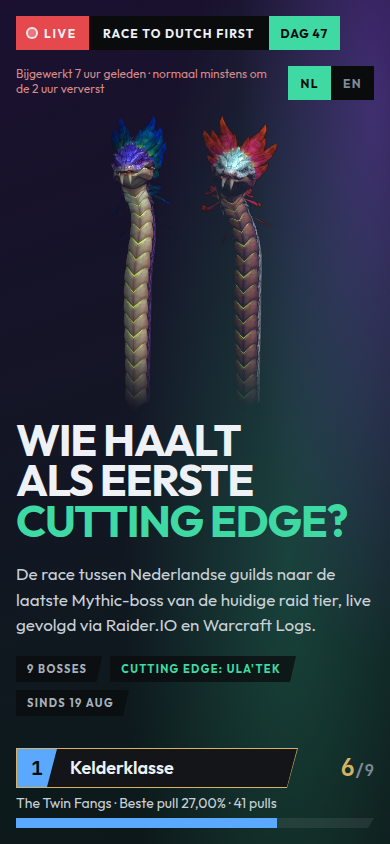
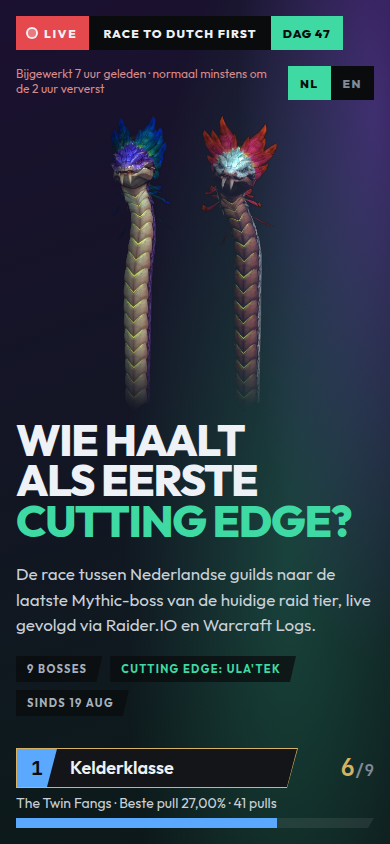
Design v2: fix drift found by the documenter (load Outfit 800, Progressie off gold, Nu live in --live-red, one late colour, dead CSS out, stale comments + contract updated)

diff --git a/site/style.css b/site/style.css
@@ -1,8 +1,8 @@
 /* =====================================================================
-   Race to Dutch First
-   The dashboard language of bmiest_wowaudit_wishlist_updater/site/style.css:
-   a ribbon brand mark, square dark tiles, flat slanted pills. Colours, fonts
-   and radii come only from tokens.css (copied unchanged from the overlay);
+   Race to Dutch First: the sections below the hero (splash.css is the hero).
+   Design language v2 (DESIGN.md): the overlay's ribbons, slanted pills, the
+   angled rcard and flat inks. Colours, fonts and radii come from tokens.css
+   (copied unchanged from the overlay; --live-red sits in splash.css);
    a guild's own colour arrives from race.json as --guild on its element.
    tokens.css sets body{overflow:hidden} for a fixed OBS canvas: undone here.
    ===================================================================== */
@@ -25,7 +25,7 @@ a:hover { text-decoration-color: var(--jade); }
   clip-path: inset(50%); white-space: nowrap;
 }
 
-/* ---- ribbon (brand mark) -------------------------------------------- */
+/* ---- ribbon (the board rows in the hero) ------------------------------ */
 .rib { display: flex; flex-direction: column; flex: 0 0 auto; min-width: 0; }
 .rib__bar {
   height: var(--rib-h, 34px); padding: 1px; background: var(--ink-600);
@@ -45,20 +45,19 @@ a:hover { text-decoration-color: var(--jade); }
 .rib__acc svg { width: 15px; height: 15px; }
 .rib__val { padding-left: 13px; font-size: 16px; font-weight: 600; white-space: nowrap; }
 
-/* NL | EN: two flat slanted buttons, the active one in jade like .pill--jade. */
-.lang-switch { display: inline-flex; gap: 4px; flex: 0 0 auto; }
+/* NL | EN in the top bar's broadcast-bug language: flush square blocks at its height, the
+   active one solid jade like the race day, the other on ink. */
+.lang-switch { display: inline-flex; flex: 0 0 auto; height: 40px; }
 .lang-switch button {
-  font: inherit; font-size: 11px; font-weight: 700; letter-spacing: .12em; cursor: pointer;
-  padding: 7px 15px 7px 11px; border: 0; background: var(--ink-750); color: var(--ink-300);
-  clip-path: polygon(0 0, 100% 0, calc(100% - 6px) 100%, 0 100%);
+  font: inherit; font-size: 13px; font-weight: 800; letter-spacing: .12em; cursor: pointer;
+  padding: 0 14px; border: 0; background: var(--ink-900); color: var(--ink-300);
   transition: color var(--t-fast) var(--ease), background var(--t-fast) var(--ease);
 }
 .lang-switch button:hover { color: var(--paper); }
-.lang-switch button[aria-pressed="true"] { background: var(--jade-ghost); color: var(--jade); }
+.lang-switch button[aria-pressed="true"] { background: var(--jade); color: var(--ink-900); }
 
 /* ---- header ---------------------------------------------------------- */
 
-.lead { margin-top: 20px; max-width: 64ch; font-size: 20px; font-weight: 300; line-height: 1.55; color: var(--paper-dim); }
 
 /* ---- pills ------------------------------------------------------------ */
 .pill {
@@ -68,6 +67,9 @@ a:hover { text-decoration-color: var(--jade); }
   clip-path: polygon(0 0, 100% 0, calc(100% - 6px) 100%, 0 100%);
 }
 .pill--gold { background: var(--ink-750); color: var(--gold); }
+/* A pill that is a button (Hall of fame: show all raiders). */
+.pill--action { border: 0; font-family: inherit; cursor: pointer; color: var(--jade); transition: background var(--t-fast) var(--ease); }
+.pill--action:hover { background: var(--ink-700); }
 
 /* ---- sections --------------------------------------------------------- */
 .view { min-width: 0; }
@@ -106,25 +108,17 @@ a:hover { text-decoration-color: var(--jade); }
 .svg-axis { fill: var(--ink-300); font-size: 11px; font-family: var(--f-mono) !important; }
 .svg-grid { stroke: var(--ink-700); stroke-width: 1; }
 
-@media (min-width: 1180px) {
-  .standings { grid-template-columns: repeat(var(--n, 4), minmax(0, 1fr)); }
-}
-
 .meter { display: grid; grid-template-columns: 58px minmax(0, 1fr) auto; align-items: center; gap: 10px; }
 .meter__track { height: 8px; background: var(--ink-700); position: relative; overflow: hidden; }
 .meter__fill { position: absolute; inset: 0 auto 0 0; width: var(--fill, 0%); background: var(--guild, var(--jade)); }
 
-/* ---- raiding now: a cap on the lane ribbon, a badge on the tile ------------ */
-
-/* On a tile it hangs on the top edge, like the caps on the lanes, so the tiles keep one line-up. */
+/* ---- raiding now: the jade pulsing dot (board rows, current-boss cards) ---------- */
 .live-dot {
   width: 7px; height: 7px; border-radius: var(--r-pill); background: var(--jade); flex: 0 0 7px;
   animation: live-pulse 1.6s var(--ease) infinite;
 }
 @keyframes live-pulse { 50% { opacity: .3; } }
 
-/* ---- kill feed ------------------------------------------------------------ */
-.feed { list-style: none; display: grid; grid-template-columns: repeat(auto-fill, minmax(330px, 1fr)); gap: 8px 16px; }
 
 /* ---- legend + tables ------------------------------------------------------ */
 .legend { display: flex; flex-wrap: wrap; gap: 8px 20px; list-style: none; margin-top: 14px; font-size: 14px; color: var(--paper-dim); }
@@ -235,7 +229,7 @@ a.rcard__src:hover { color: var(--jade); }
   background: var(--ink-750); color: var(--ink-200);
   clip-path: polygon(0 0, 100% 0, calc(100% - 4px) 100%, 0 100%);
 }
-.boss__tag.prog { background: var(--ink-750); color: var(--gold); }
+.boss__tag.prog { background: var(--ink-750); color: var(--jade); }
 .boss__stat { display: flex; align-items: flex-end; gap: 22px; margin-top: 6px; }
 .boss__v { font-family: var(--f-mono); font-variant-numeric: tabular-nums; font-size: 24px; font-weight: 500; line-height: 1; color: var(--paper); }
 .boss__l { font-size: 9px; font-weight: 600; color: var(--ink-300); margin-top: 6px; letter-spacing: .14em; text-transform: uppercase; }
@@ -253,12 +247,6 @@ a.rcard__src:hover { color: var(--jade); }
 .svg-bar--kill { fill: var(--jade); }
 .svg-kill { stroke: var(--jade); stroke-width: 1; stroke-dasharray: 4 4; }
 
-/* ---- race lanes: an overlay ribbon per guild, then its track ------------------ */
-
-.lane { display: grid; grid-template-columns: minmax(220px, 310px) minmax(0, 1fr); gap: 16px; align-items: end; }
-.lane .rib { --rib-h: 36px; --rib-cut: 11px; }
-.lane .rib__acc { color: var(--ink-900); font-weight: 700; font-size: 15px; }
-.lane .rib__val { flex: 1; min-width: 0; overflow: hidden; text-overflow: ellipsis; }
 .svg-marker { stroke: var(--ink-900); stroke-width: 2; }
 .svg-step { stroke-linecap: round; }
 
@@ -268,28 +256,24 @@ a.rcard__src:hover { color: var(--jade); }
   display: flex; flex-direction: column; gap: 8px; font-size: 13px; color: var(--ink-300); max-width: 90ch;
 }
 .updated { font-size: 15px; color: var(--paper-dim); }
-/* Late data is gold, not red: nothing is broken, the data just hasn't caught up
-   (the overlay's .rcard__at.is-late). */
-.updated--late { color: var(--gold); }
+/* Late data is muted rose, not alarm red and never gold (gold is earned): nothing is broken,
+   the data just hasn't caught up. */
+.updated.updated--late { color: var(--rose); }
 
 /* ---- responsive ------------------------------------------------------------------ */
 @media (max-width: 720px) {
   .page { padding: 28px 16px 72px; gap: 32px; }
-  .lane { grid-template-columns: minmax(0, 1fr); gap: 4px; }
-  .lane--axis .lane__label { display: none; }
-  .lead { font-size: 17px; }
   .winner { grid-template-columns: minmax(0, 1fr); padding: 20px; gap: 12px; }
   .winner__icon { width: 44px; height: 44px; }
 }
 @media (max-width: 600px) {
   .table-wrap--scroll { display: none; }
   .boss-cards { display: flex; flex-direction: column; gap: 10px; }
-  .feed { grid-template-columns: minmax(0, 1fr); }
 }
 @media (max-width: 400px) {
   .page { padding: 22px 12px 64px; }
   .rib__val { font-size: 14px; }
-  .tiles-grid, .curves-grid { grid-template-columns: minmax(0, 1fr); }
+  .curves-grid { grid-template-columns: minmax(0, 1fr); }
   .boss-table tbody th { min-width: 118px; }
 }
 @media (prefers-reduced-motion: reduce) {
@@ -297,14 +281,14 @@ a.rcard__src:hover { color: var(--jade); }
 }
 
 /* ---- "Nu live" strip (live.js) -----------------------------------------------
-   Rose for the live dot: the one place on the page that means "right now". */
+   On air = --live-red, like the LIVE block in the top bar (raiding is jade). */
 .live-strip { display: flex; flex-direction: column; gap: 10px; }
 .live-strip__label {
   display: inline-flex; align-items: center; gap: 8px;
-  font-size: 12px; font-weight: 700; letter-spacing: .2em; text-transform: uppercase; color: var(--rose);
+  font-size: 12px; font-weight: 700; letter-spacing: .2em; text-transform: uppercase; color: var(--live-red);
 }
 .live-strip__list { display: grid; grid-template-columns: repeat(auto-fill, minmax(280px, 1fr)); gap: 10px 16px; }
-.live-dot { width: 9px; height: 9px; border-radius: var(--r-pill); background: var(--rose); flex: 0 0 9px; }
+.live-strip .live-dot { width: 9px; height: 9px; flex-basis: 9px; background: var(--live-red); }
 .live-card {
   display: flex; flex-direction: column; gap: 4px; min-width: 0; padding: 12px 16px; text-decoration: none;
   background: var(--ink-800); border: 1px solid var(--ink-700);
@@ -313,7 +297,7 @@ a.rcard__src:hover { color: var(--jade); }
 .live-card__top { display: flex; align-items: center; gap: 8px; min-width: 0; }
 .live-card__name { font-size: 16px; font-weight: 600; color: var(--paper); }
 .live-card__guild { display: inline-flex; align-items: center; gap: 6px; font-size: 13px; color: var(--ink-300); }
-.live-card__guild::before { content: ""; width: 8px; height: 8px; background: var(--guild, var(--rose)); clip-path: polygon(0 0, 100% 0, calc(100% - 3px) 100%, 0 100%); }
+.live-card__guild::before { content: ""; width: 8px; height: 8px; background: var(--guild, var(--live-red)); clip-path: polygon(0 0, 100% 0, calc(100% - 3px) 100%, 0 100%); }
 .live-card__title {
   font-size: 13px; color: var(--paper-dim); overflow: hidden; text-overflow: ellipsis; white-space: nowrap;
 }

diff --git a/site/splash.css b/site/splash.css
@@ -1,3 +1,6 @@
+/* tokens.css (a byte copy of the overlay's) loads Outfit 300-700; the poster type is 800. */
+@import url('https://fonts.googleapis.com/css2?family=Outfit:wght@800&display=swap');
+
 /* =====================================================================
    Splash hero (design language v2 for the race site), sketch A: the
    overlay's language (tokens.css, ribbons, slanted pills, jade + gold)
@@ -5,7 +8,8 @@
    nothing drawn on it, the question is the title, the board is a column
    of overlay ribbons with a raid-frame bar per guild, and a jade ticker
    (from sketch C) carries the latest kills. Guild colour = --guild/--acc.
-   Gold = the leader and the winner; jade = the race brand and live state.
+   Gold = the leader, the first kill and the winner; jade = the race brand, raiding and the CE
+   marker; --live-red = on air (LIVE block, Nu live).
    ===================================================================== */
 
 .sp {
@@ -39,16 +43,6 @@
 .bug__day { padding: 0 18px; background: var(--jade); color: var(--ink-900); font-size: 14px; letter-spacing: .06em; text-transform: uppercase; font-variant-numeric: tabular-nums; }
 .sp__end { display: flex; align-items: center; gap: 14px; }
 .sp__upd { font-size: 13px; color: var(--ink-200); white-space: nowrap; }
-/* NL | EN in the bug's language: flush square blocks at its height, the active one in jade
-   like the race day, the other on ink. */
-.sp__end .lang-switch { gap: 0; height: 40px; }
-.sp__end .lang-switch button {
-  clip-path: none; padding: 0 14px; font-size: 13px; font-weight: 800;
-  background: var(--ink-900); color: var(--ink-300);
-}
-.sp__end .lang-switch button:hover { color: var(--paper); }
-.sp__end .lang-switch button[aria-pressed="true"] { background: var(--jade); color: var(--ink-900); }
-.sp__upd.updated--late { color: var(--rose); }
 
 /* ---- stage ----------------------------------------------------------------- */
 .sp__stage { position: relative; z-index: 2; max-width: 1320px; margin: 0 auto; padding: 64px 24px 56px; }
@@ -146,8 +140,8 @@
 @media (max-width: 900px) {
   .sp__top { padding: 16px 16px 0; flex-wrap: wrap; }
   .sp__upd { font-size: 12px; }
-  .bug, .sp__end .lang-switch { height: 34px; }
-  .sp__end .lang-switch button { padding: 0 12px; font-size: 12px; }
+  .bug, .lang-switch { height: 34px; }
+  .lang-switch button { padding: 0 12px; font-size: 12px; }
   .bug__live { padding: 0 12px; font-size: 12px; }
   .bug__title { padding: 0 14px; font-size: 12px; }
   .bug__day { padding: 0 12px; font-size: 12px; }

diff --git a/site/halloffame.css b/site/halloffame.css
@@ -1,5 +1,5 @@
-/* Hall of fame (halloffame.js). Same language as style.css: square dark tiles with
-   the guild colour on the left edge, gold for the race's first kills. Colours and
+/* Hall of fame (halloffame.js). Same language as style.css: square dark tiles with a
+   boss-head tile and the first team's guild dot, gold for the race's first kills. Colours and
    fonts only from tokens.css; a guild's colour arrives as --guild. */
 
 .hof-grid { display: grid; grid-template-columns: repeat(auto-fill, minmax(340px, 1fr)); gap: 16px; }

diff --git a/.impeccable/surfaces/site-index-html.md b/.impeccable/surfaces/site-index-html.md
@@ -17,11 +17,11 @@ Dutch raiders and the wider Dutch WoW community, on a phone or a second monitor 
 
 THESIS: The race as a raid poster in the language of the bmiest stream overlay: the boss the leader is fighting right now is the hero, and the standings sit on it as overlay ribbons. It refuses the generic data dashboard that the canon and Klassement attempts became.
 
-OWN-WORLD: The overlay's tokens unchanged (ink scale, jade, gold, Outfit + JetBrains Mono): ribbons with a coloured accent block, slanted pills and bars, flat dark panels; a jade/void glow behind a Blizzard boss render; jade for the race brand and live state, gold only for the leader and the winner, guild colours on rank blocks, bars and chips. No side stripes.
+OWN-WORLD: The overlay's tokens unchanged (ink scale, jade, gold, Outfit + JetBrains Mono): ribbons with a coloured accent block, slanted pills and bars, flat dark panels; a jade/void glow behind a Blizzard boss render; jade for the race brand, raiding and the CE marker, --live-red for on air (LIVE, Nu live), gold only for the leader, the first kill and the winner, guild colours on rank blocks, bars and chips. No side stripes.
 
 STORY: In one look the visitor sees the boss the race is stuck on, the question, every guild's kills and how far it has brought its current boss, and the latest kills; LIVE appears only while a guild is raiding. Below: progress over time, per boss, current boss pull charts, hall of fame.
 
-FIRST VIEWPORT: Top bar with the brand ribbon left, LIVE pill (only when raiding), update time and NL|EN right. Then the uppercase title with "Cutting Edge?" in jade, the lead line and tier pills, over the leader's current boss render (two bodies for a council fight) on the right with nothing drawn on it. Under the title the board: per guild a ribbon (rank block in guild colour, name, raiding badge), kills x/9, and a raid-frame bar labelled with its current boss, best pull and pulls; the leader in gold. A jade "Laatste kills" ticker closes the hero.
+FIRST VIEWPORT: Top bar as sketch C's broadcast bug (user decision after the first build): flush blocks LIVE (only when raiding), RACE TO DUTCH FIRST, Dag N; update time and NL|EN (same flush blocks) right. Then the uppercase title with "Cutting Edge?" in jade, the lead line and tier pills, over the leader's current boss render (two bodies for a council fight) owning the column right of the board (a lone wide render takes the field beside the title; below 1180px a band above the title), never past 2x its render, with nothing drawn on it. Under the title the board: per guild a ribbon (rank block in guild colour, name, raiding badge), kills x/9, and a raid-frame bar labelled with its current boss, best pull and pulls; the leader in gold. A jade "Laatste kills" ticker closes the hero.
 
 FORM: User-pinned from a three-sketch moodboard: sketch A (the splash) with the ticker of sketch C, after the category standard (seed 837f26aa canon card) and "Het Klassement" (pick card) were built and rejected. Reference the user named: "my overlay".
 
@@ -34,4 +34,5 @@ The live hero: the boss the leader is fighting right now, swapping by itself as 
 ## Unresolved
 
 - Nymrissa Wavecaller has no render in the overlay's bossart.js; with her as the leader's boss the hero shows no art.
-- Boss renders load from render.worldofwarcraft.com (CSP img-src allows it); no local copies.
+- Resolved: boss renders are self-hosted alpha cut-outs (scripts/boss-cutouts.py, provenance embedded); CSP img-src is 'self'.
+- Outfit 800 is loaded by splash.css because the overlay's tokens.css imports 300-700 only; move it into the overlay's tokens.css (and --live-red with it) when the overlay adopts v2.

diff --git a/DESIGN.md b/DESIGN.md
@@ -221,7 +221,7 @@ A near-black ink ramp with one cool green voice, one warm gold voice and the gui
 
 ### Tertiary
 - **Broadcast Red** (live-red): [race; candidate family] the LIVE block in the bug, shown only while a guild is really raiding. Lives on `:root` in splash.css because tokens.css is a byte copy of the overlay's; move it to tokens.css when the overlay adopts it.
-- **Faded Rose** (rose): [family] warnings that are not errors: the error capsule's 1px border and the late-data update line in the top bar.
+- **Faded Rose** (rose): [family] warnings that are not errors: the error capsule's 1px border and the late-data update line (top bar and footer).
 
 ### Neutral
 - **Raid Night Black** (ink-900): page ground, bug name block, ticker band, inactive language block, ink text on jade.
@@ -244,7 +244,7 @@ A near-black ink ramp with one cool green voice, one warm gold voice and the gui
 
 **The Jade Is the Race Rule.** Jade is the race brand, live state and the CE marker. Guild colours (from guilds.toml) stay clear of jade and gold.
 
-**The Red Means On Air Rule.** Broadcast red appears only in the LIVE block, and only while some guild's live state is really `live`.
+**The Red Means On Air Rule.** Broadcast red means on air: the LIVE block (only while some guild's live state is really `live`) and the "Nu live" strip of streams that are live now. Raiding itself is jade.
 
 ## Typography
 
